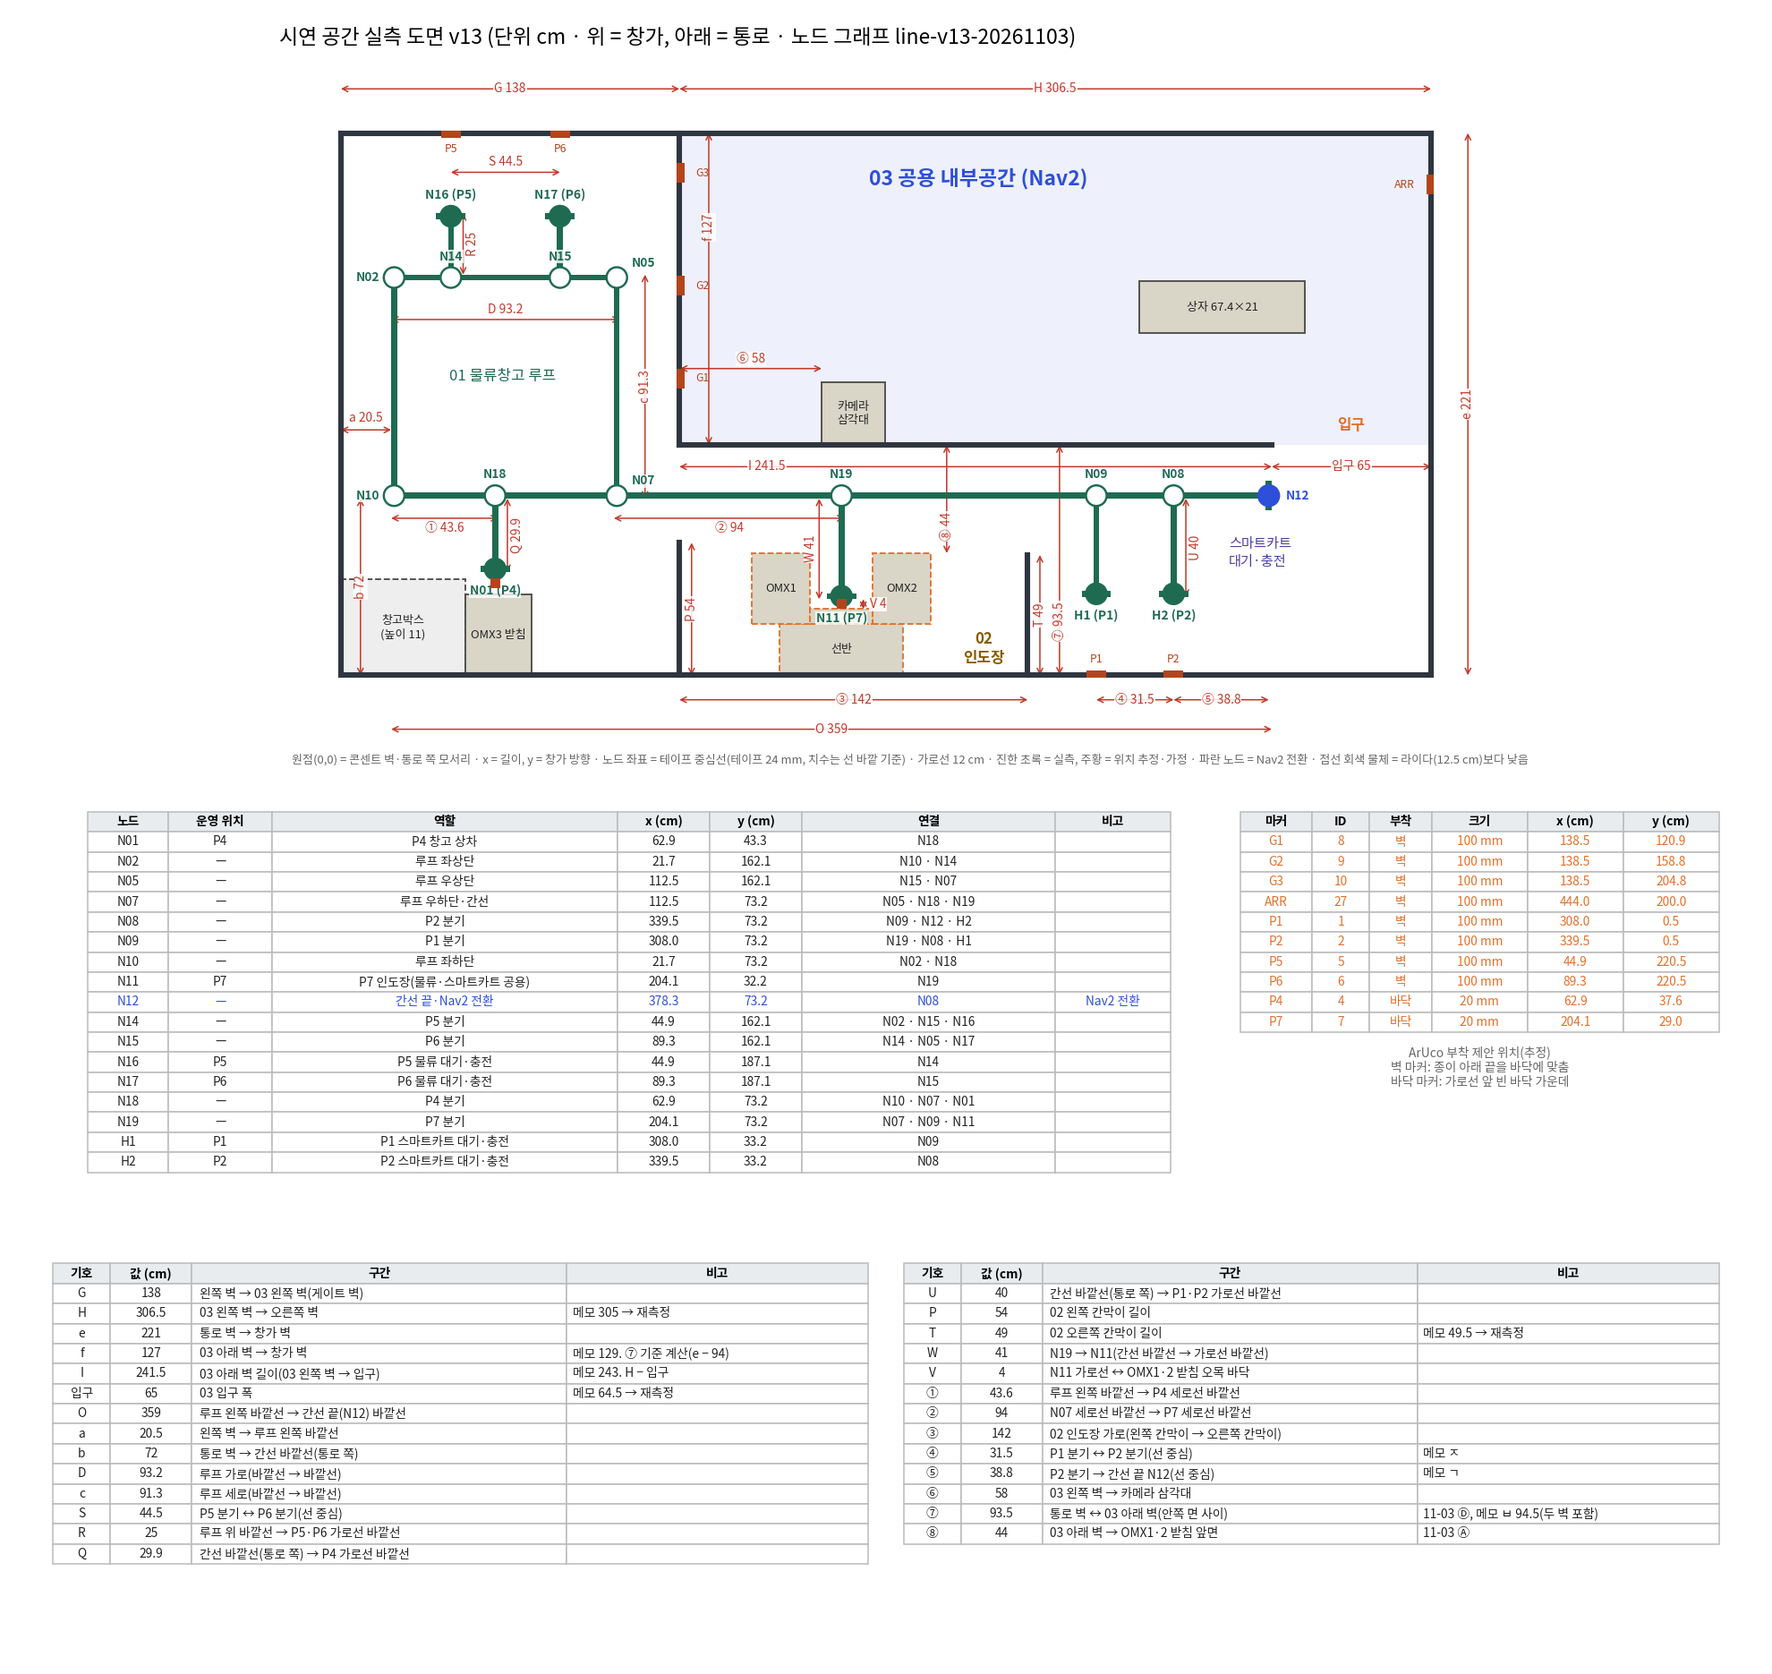
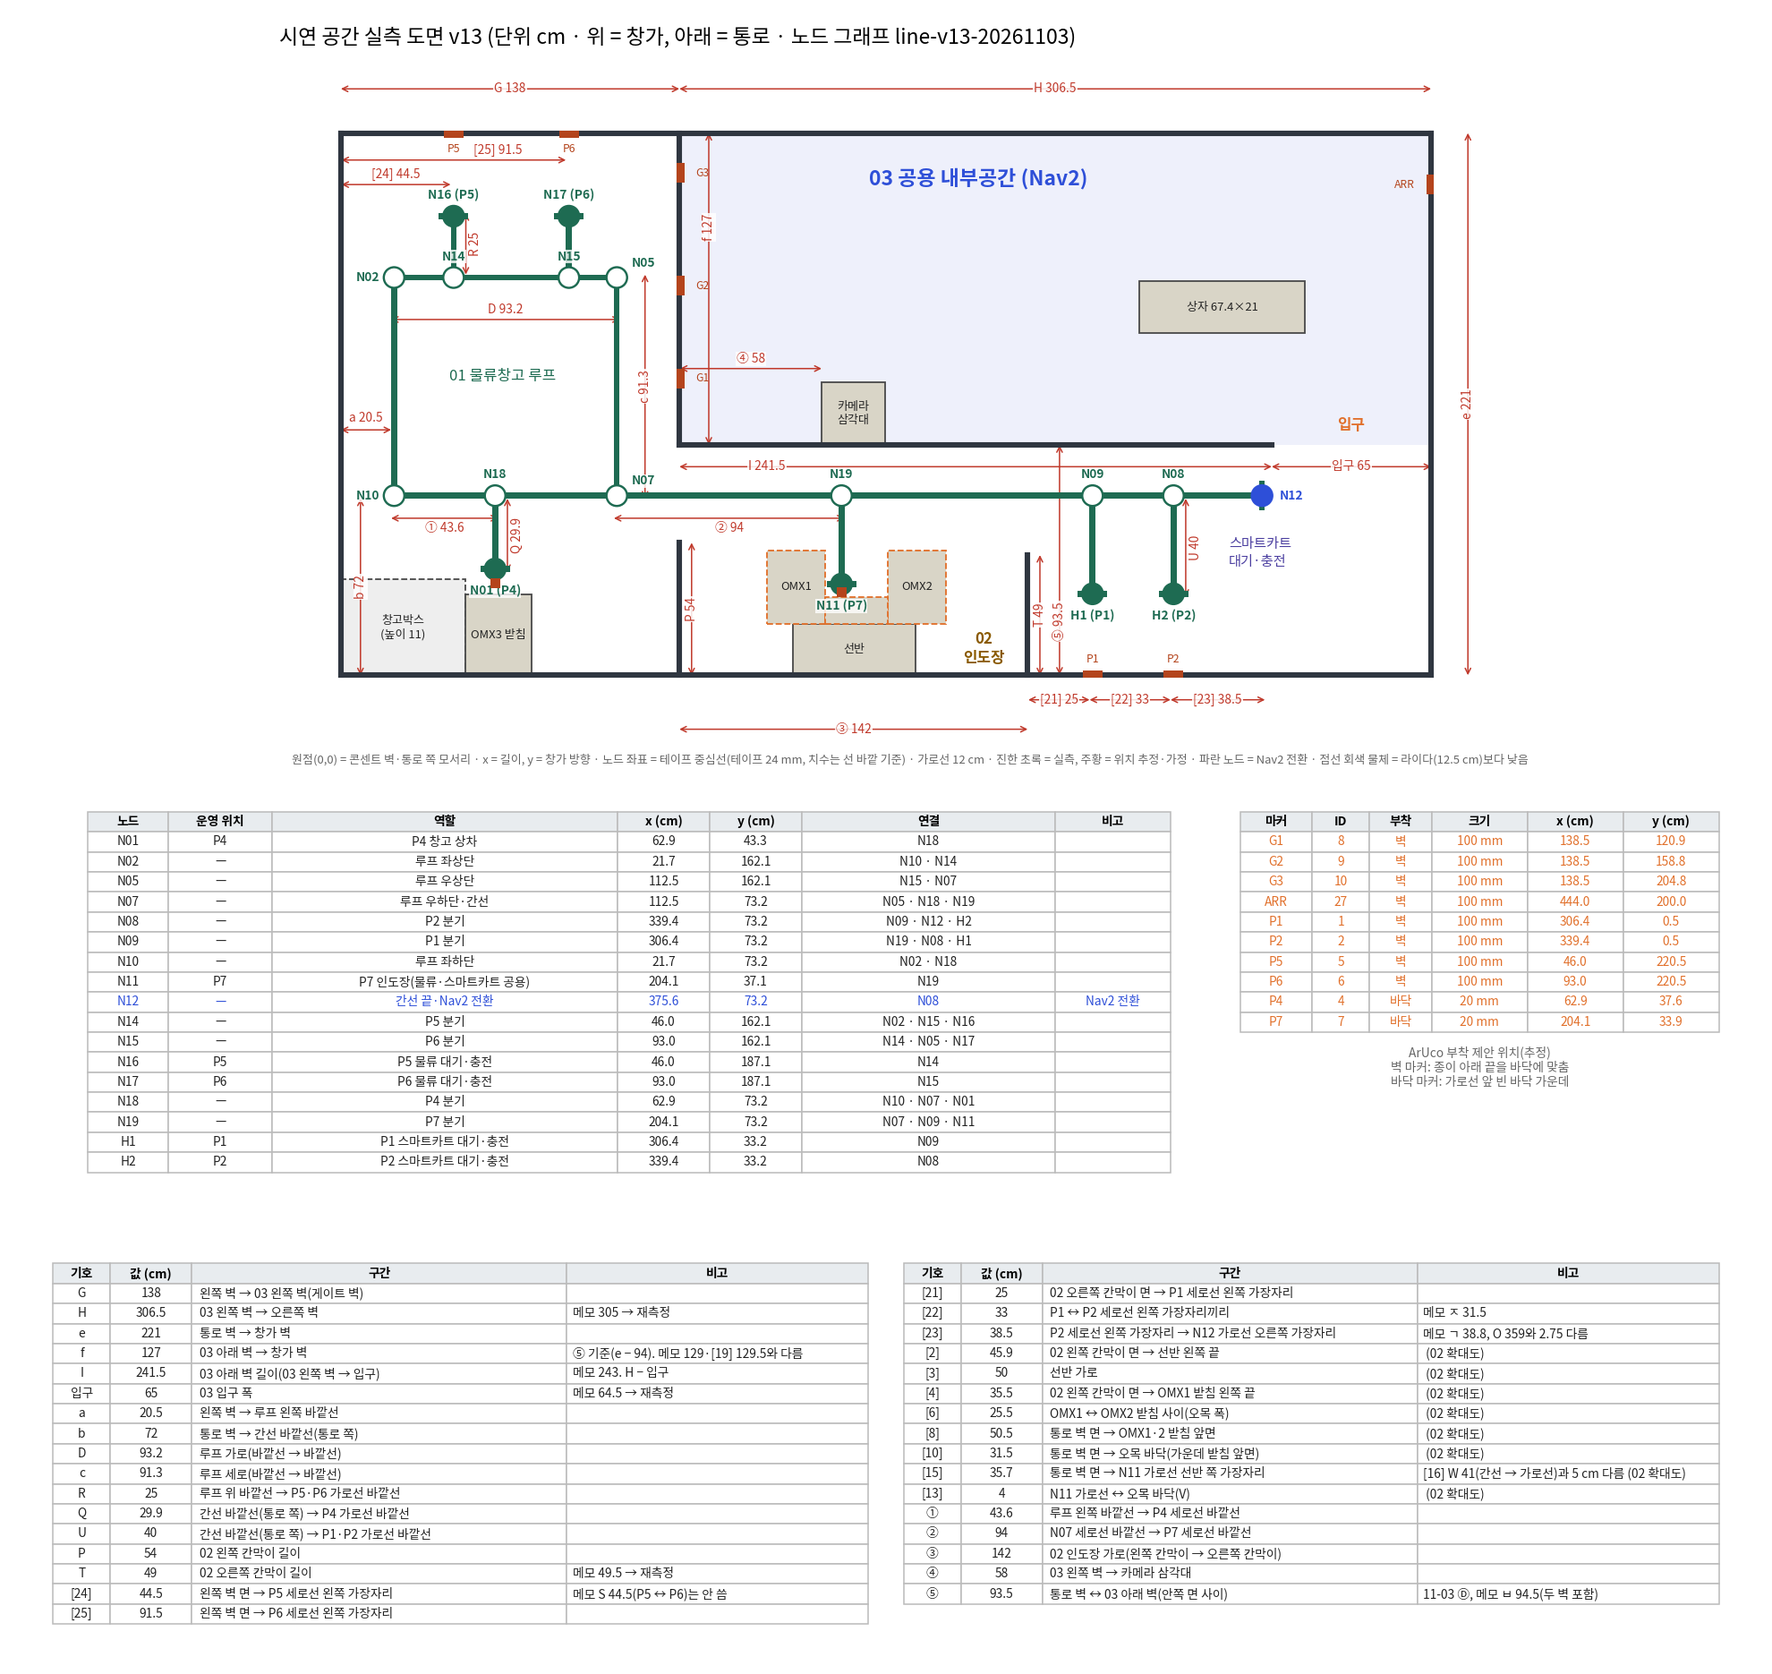
[FFT1-95] bugfix: 11-03 저녁 재측정 기록지 값으로 02 인도장·P1·P2·P5·P6 위치 보정
- 선반 x 184.15~234.15([2] 45.9·[3] 50), OMX1 왼쪽 173.75([4]), 오목 폭 25.5([6])
- OMX1·2 앞면 y 50.75([8]), 오목 바닥 31.75([10]), N11 y 37.15([15] 35.7, [13] V 4)
- H1·N09 x 306.45([21]), H2·N08 339.45([22]), N12 375.55([23])
- N14·N16 x 45.95([24]), N15·N17 92.95([25]), P1·P2·P5·P6·P7 마커 이동
- 도면 치수에 기록지 번호 [n] 표시, 02 인도장 확대도 map_measured_v13_02.png 추가

diff --git a/services/roport-pinky/src/roport_gz_world/roport_gz_world/draw_layout.py b/services/roport-pinky/src/roport_gz_world/roport_gz_world/draw_layout.py
@@ -1,7 +1,7 @@
 """배치 데이터 → 실측 도면 PNG(노드 그래프 포함).
 
 패키지 폴더에서 실행한다(matplotlib 필요, 실행·CI 의존성 아님):
-  python3 -m roport_gz_world.draw_layout     # ../../maps/map_measured_<version>.png
+  python3 -m roport_gz_world.draw_layout     # ../../maps/map_measured_<version>.png, _02.png
 """
 
 import argparse
@@ -25,6 +25,8 @@ LABELS = {
     'omx3_base': 'OMX3 받침', 'shelf_02': '선반', 'omx12_left': 'OMX1', 'omx12_right': 'OMX2',
     'omx12_back': '',
 }
+# 02 인도장 확대도(map_measured_<version>_02.png)에만 그리는 치수(재측정 기록지 번호)
+DETAIL_02 = {'[2]', '[3]', '[4]', '[6]', '[8]', '[10]', '[15]', '[13]'}
 
 
 def _korean_font():
@@ -49,7 +51,8 @@ def _dim(ax, p0, p1, text, offset=(0, 0), color=C['dim'], rot=0):
             bbox=dict(fc='white', ec='none', pad=0.6, alpha=0.85))
 
 
-def draw(layout, path):
+def draw(layout, path, detail=False):
+    """detail=True 면 02 인도장 확대도(치수 [2]~[15])만 그린다."""
     import matplotlib
     matplotlib.use('Agg')
     import matplotlib.pyplot as plt
@@ -58,11 +61,18 @@ def draw(layout, path):
     plt.rcParams['font.family'] = _korean_font()
     raw = layout.raw
     x0, y0, x1, y1 = layout.room()
-    fig = plt.figure(figsize=(18, 17), dpi=110)
-    ax = fig.add_axes([0.03, 0.538, 0.94, 0.4265])
-    ax.set_aspect('equal')
-    ax.set_xlim(x0 - 25, x1 + 25)
-    ax.set_ylim(y0 - 40, y1 + 30)
+    if detail:
+        fig = plt.figure(figsize=(14, 9.2), dpi=110)
+        ax = fig.add_axes([0.02, 0.02, 0.96, 0.9])
+        ax.set_aspect('equal')
+        ax.set_xlim(128, 296)
+        ax.set_ylim(-6, 100)
+    else:
+        fig = plt.figure(figsize=(18, 17), dpi=110)
+        ax = fig.add_axes([0.03, 0.538, 0.94, 0.4265])
+        ax.set_aspect('equal')
+        ax.set_xlim(x0 - 25, x1 + 25)
+        ax.set_ylim(y0 - 40, y1 + 30)
     ax.axis('off')
 
     # 03 공용 내부공간 바탕
@@ -162,25 +172,29 @@ def draw(layout, path):
     # 새 번호(①…)를 매기고 표의 비고에 메모 원래 기호를 적는다.
     n16, n01, h2 = (next(k for k in layout.nodes if k.id == i) for i in ('N16', 'N01', 'H2'))
     hw_ = layout.line_width / 2
+    n17, h1, n12 = (next(k for k in layout.nodes if k.id == i) for i in ('N17', 'H1', 'N12'))
+    sh, ol, orr, bk = (next(o for o in raw['objects'] if o['name'] == i)
+                       for i in ('shelf_02', 'omx12_left', 'omx12_right', 'omx12_back'))
+    n11 = next(k for k in layout.nodes if k.id == 'N11')
+    bar11 = n11.y - hw_
+    t_ = raw['defaults']['wall_thickness'] / 2   # 벽 면 = 중심 ± 0.25 cm
     dims = [
         # (시작, 끝, 기호(None = 새 번호), 값, 구간, 비고, 글자 위치 보정, 회전)
+        # [n] = 2026-11-03 저녁 재측정 기록지 번호(Confluence 19136514)
         ((0, y1 + 18), (138, y1 + 18), 'G', '138', '왼쪽 벽 → 03 왼쪽 벽(게이트 벽)', '',
          (0, 0), 0),
         ((138, y1 + 18), (x1, y1 + 18), 'H', '306.5', '03 왼쪽 벽 → 오른쪽 벽', '메모 305 → 재측정',
          (0, 0), 0),
         ((x1 + 15, 0), (x1 + 15, y1), 'e', '221', '통로 벽 → 창가 벽', '', (0, 0), 90),
-        ((150, 94), (150, y1), 'f', '127', '03 아래 벽 → 창가 벽', '메모 129. ⑦ 기준 계산(e − 94)',
-         (0, 25), 90),
+        ((150, 94), (150, y1), 'f', '127', '03 아래 벽 → 창가 벽',
+         '⑤ 기준(e − 94). 메모 129·[19] 129.5와 다름', (0, 25), 90),
         ((138, 85), (379.5, 85), 'I', '241.5', '03 아래 벽 길이(03 왼쪽 벽 → 입구)',
          '메모 243. H − 입구', (-85, 0), 0),
         ((379.5, 85), (x1, 85), '입구', '65', '03 입구 폭', '메모 64.5 → 재측정', (0, 0), 0),
-        ((20.5, -22), (379.5, -22), 'O', '359', '루프 왼쪽 바깥선 → 간선 끝(N12) 바깥선', '',
-         (0, 0), 0),
         ((0, 100), (20.5, 100), 'a', '20.5', '왼쪽 벽 → 루프 왼쪽 바깥선', '', (0, 5), 0),
         ((8, 0), (8, 72), 'b', '72', '통로 벽 → 간선 바깥선(통로 쪽)', '', (0, 0), 90),
         ((20.5, 145), (113.7, 145), 'D', '93.2', '루프 가로(바깥선 → 바깥선)', '', (0, 4), 0),
         ((124, 72), (124, 163.3), 'c', '91.3', '루프 세로(바깥선 → 바깥선)', '', (0, 0), 90),
-        ((44.85, 205), (89.35, 205), 'S', '44.5', 'P5 분기 ↔ P6 분기(선 중심)', '', (0, 4), 0),
         ((n16.x + 5, 163.3), (n16.x + 5, n16.y + hw_), 'R', '25',
          '루프 위 바깥선 → P5·P6 가로선 바깥선', '', (4, 0), 90),
         ((n01.x + 5, 72), (n01.x + 5, n01.y - hw_), 'Q', '29.9',
@@ -189,25 +203,41 @@ def draw(layout, path):
          '간선 바깥선(통로 쪽) → P1·P2 가로선 바깥선', '', (4, 0), 90),
         ((143, 0), (143, 54), 'P', '54', '02 왼쪽 칸막이 길이', '', (0, 0), 90),
         ((285, 0), (285, 49), 'T', '49', '02 오른쪽 칸막이 길이', '메모 49.5 → 재측정', (0, 0), 90),
-        ((195, 72), (195, 31.0), 'W', '41', 'N19 → N11(간선 바깥선 → 가로선 바깥선)', '',
-         (-3.5, 0), 90),
-        ((213, 31.0), (213, 27.0), 'V', '4', 'N11 가로선 ↔ OMX1·2 받침 오목 바닥', '',
-         (6, 0), 0),
+        ((t_, 200), (n16.x - hw_, 200), '[24]', '44.5', '왼쪽 벽 면 → P5 세로선 왼쪽 가장자리',
+         '메모 S 44.5(P5 ↔ P6)는 안 씀', (0, 4), 0),
+        ((t_, 210), (n17.x - hw_, 210), '[25]', '91.5', '왼쪽 벽 면 → P6 세로선 왼쪽 가장자리', '',
+         (18, 4), 0),
+        ((280 + t_, -10), (h1.x - hw_, -10), '[21]', '25',
+         '02 오른쪽 칸막이 면 → P1 세로선 왼쪽 가장자리', '', (0, 0), 0),
+        ((h1.x - hw_, -10), (h2.x - hw_, -10), '[22]', '33', 'P1 ↔ P2 세로선 왼쪽 가장자리끼리',
+         '메모 ㅈ 31.5', (0, 0), 0),
+        ((h2.x - hw_, -10), (n12.x + hw_, -10), '[23]', '38.5',
+         'P2 세로선 왼쪽 가장자리 → N12 가로선 오른쪽 가장자리', '메모 ㄱ 38.8, O 359와 2.75 다름',
+         (0, 0), 0),
+        ((138 + t_, 10), (sh['min'][0], 10), '[2]', '45.9', '02 왼쪽 칸막이 면 → 선반 왼쪽 끝', '',
+         (0, 3), 0),
+        ((sh['min'][0], 5), (sh['max'][0], 5), '[3]', '50', '선반 가로', '', (12, 0), 0),
+        ((138 + t_, 40), (ol['min'][0], 40), '[4]', '35.5', '02 왼쪽 칸막이 면 → OMX1 받침 왼쪽 끝',
+         '', (0, 3), 0),
+        ((ol['max'][0], 46), (orr['min'][0], 46), '[6]', '25.5', 'OMX1 ↔ OMX2 받침 사이(오목 폭)',
+         '', (7, 0), 0),
+        ((178, t_), (178, ol['max'][1]), '[8]', '50.5', '통로 벽 면 → OMX1·2 받침 앞면', '',
+         (0, 12), 90),
+        ((201, t_), (201, bk['max'][1]), '[10]', '31.5', '통로 벽 면 → 오목 바닥(가운데 받침 앞면)',
+         '', (0, -2), 90),
+        ((215, t_), (215, bar11), '[15]', '35.7', '통로 벽 면 → N11 가로선 선반 쪽 가장자리',
+         '[16] W 41(간선 → 가로선)과 5 cm 다름', (0, -2), 90),
+        ((219, bk['max'][1]), (219, bar11), '[13]', '4', 'N11 가로선 ↔ 오목 바닥(V)', '',
+         (8, 0), 0),
         ((20.5, 64), (64.1, 64), None, '43.6', '루프 왼쪽 바깥선 → P4 세로선 바깥선', '',
          (0, -4), 0),
         ((111.3, 64), (205.3, 64), None, '94', 'N07 세로선 바깥선 → P7 세로선 바깥선', '',
          (0, -4), 0),
-        ((138, -10), (280, -10), None, '142', '02 인도장 가로(왼쪽 칸막이 → 오른쪽 칸막이)', '',
-         (0, 0), 0),
-        ((308.0, -10), (339.5, -10), None, '31.5', 'P1 분기 ↔ P2 분기(선 중심)', '메모 ㅈ',
-         (0, 0), 0),
-        ((339.5, -10), (378.3, -10), None, '38.8', 'P2 분기 → 간선 끝 N12(선 중심)', '메모 ㄱ',
+        ((138, -22), (280, -22), None, '142', '02 인도장 가로(왼쪽 칸막이 → 오른쪽 칸막이)', '',
          (0, 0), 0),
         ((138.25, 125), (196, 125), None, '58', '03 왼쪽 벽 → 카메라 삼각대', '', (0, 4), 0),
-        ((293, 0.25), (293, 93.75), None, '93.5', '통로 벽 ↔ 03 아래 벽(안쪽 면 사이)',
+        ((293, t_), (293, 94 - t_), None, '93.5', '통로 벽 ↔ 03 아래 벽(안쪽 면 사이)',
          '11-03 Ⓓ, 메모 ㅂ 94.5(두 벽 포함)', (0, -25), 90),
-        ((247, 93.75), (247, 49.75), None, '44', '03 아래 벽 → OMX1·2 받침 앞면', '11-03 Ⓐ',
-         (0, -11), 90),
     ]
     drows = []
     num = 0
@@ -215,8 +245,15 @@ def draw(layout, path):
         if key is None:
             key = chr(0x2460 + num)
             num += 1
-        _dim(ax, p0, p1, f'{key} {value}', offset=off, rot=rot)
-        drows.append([key, value, desc, note])
+        if (key in DETAIL_02) == detail:
+            _dim(ax, p0, p1, f'{key} {value}', offset=off, rot=rot)
+        drows.append([key, value, desc, note + (' (02 확대도)' if key in DETAIL_02 else '')])
+    if detail:
+        ax.set_title(f'02 인도장 확대 {layout.version} (단위 cm, [n] = 2026-11-03 재측정 기록지 번호 · '
+                     f'통로 벽 면 y 0.25, 02 왼쪽 칸막이 면 x 138.25)', fontsize=13, loc='left')
+        fig.savefig(path, dpi=110, metadata={'Software': None})
+        plt.close(fig)
+        return
 
     ax.set_title(f'시연 공간 실측 도면 {layout.version} (단위 cm · 위 = 창가, 아래 = 통로 · '
                  f'노드 그래프 {layout.graph_version})', fontsize=15, loc='left', pad=12)
@@ -311,6 +348,9 @@ def main(argv=None):
     out = args.output or os.path.join(DEFAULT_MAP_DIR, f'map_measured_{layout.version}.png')
     draw(layout, out)
     print(f'wrote {out}')
+    out02 = os.path.splitext(out)[0] + '_02.png'
+    draw(layout, out02, detail=True)
+    print(f'wrote {out02}')
     return 0
 
 

diff --git a/services/roport-pinky/src/roport_gz_world/test/test_layout.py b/services/roport-pinky/src/roport_gz_world/test/test_layout.py
@@ -83,16 +83,18 @@ def test_line_dimensions_from_measurement(layout):
     assert n05.x - n10.x + 2 * half == pytest.approx(93.2)         # D
     assert n05.y - n10.y + 2 * half == pytest.approx(91.3)         # c
     n12 = _node(layout, 'N12')
-    assert n12.x + half - (n10.x - half) == pytest.approx(359.0)   # O
-    # 간선 끝은 03 입구 시작과 같은 x
-    assert n12.x + half == pytest.approx(379.5)
-    assert _node(layout, 'N15').x - _node(layout, 'N14').x == pytest.approx(44.5)   # S
+    # 2026-11-03 저녁 재측정 기록지: 벽·칸막이 면 → 세로선 왼쪽 가장자리
+    wall_face = layout.raw['defaults']['wall_thickness'] / 2
+    assert _node(layout, 'N16').x - half - wall_face == pytest.approx(44.5)        # [24]
+    assert _node(layout, 'N17').x - half - wall_face == pytest.approx(91.5)        # [25]
     for stop, length in (('N16', 25), ('N17', 25)):                                # R
         assert _node(layout, stop).y + half - (n05.y + half) == pytest.approx(length)
-    for stop, length in (('N01', 29.9), ('N11', 41), ('H1', 40), ('H2', 40)):      # Q W U
+    for stop, length in (('N01', 29.9), ('H1', 40), ('H2', 40)):                   # Q U
         assert (n10.y - half) - (_node(layout, stop).y - half) == pytest.approx(length)
-    assert _node(layout, 'N08').x - _node(layout, 'N09').x == pytest.approx(31.5)  # ㅈ
-    assert n12.x - _node(layout, 'N08').x == pytest.approx(38.8)                   # ㄱ
+    h1, h2 = _node(layout, 'H1'), _node(layout, 'H2')
+    assert h1.x - half - (280 + wall_face) == pytest.approx(25)                    # [21]
+    assert h2.x - h1.x == pytest.approx(33)                                        # [22]
+    assert n12.x + half - (h2.x - half) == pytest.approx(38.5)                     # [23]
     # 분기 x: 바깥선 → 바깥선
     assert _node(layout, 'N18').x + half - (n10.x - half) == pytest.approx(43.6)
     n07 = _node(layout, 'N07')
@@ -116,23 +118,31 @@ def test_delivery_and_warehouse_dimensions(layout):
     half = layout.bar_length / 2
     assert objs['omx12_left']['max'][0] < _node(layout, 'N11').x - half
     assert _node(layout, 'N11').x + half < objs['omx12_right']['min'][0]
-    assert objs['omx12_right']['min'][0] - objs['omx12_left']['max'][0] == pytest.approx(25.6)  # f
+    assert objs['omx12_right']['min'][0] - objs['omx12_left']['max'][0] == pytest.approx(25.5)  # [6]
+    face = 138 + layout.raw['defaults']['wall_thickness'] / 2      # 칸막이-좌 면
+    assert objs['shelf_02']['min'][0] - face == pytest.approx(45.9)                # [2]
+    assert objs['shelf_02']['max'][0] - objs['shelf_02']['min'][0] == pytest.approx(50)  # [3]
+    assert objs['omx12_left']['min'][0] - face == pytest.approx(35.5)              # [4]
 
 
-def test_omx12_from_zone03_wall(layout):
-    # 2026-11-03 재측정: 03 아래 벽 면(통로 쪽)에서 잰 거리. 오목 바닥은 W·V로 정함(Ⓑ 62 안 씀)
+def test_omx12_from_walls(layout):
+    # 2026-11-03 저녁 재측정 기록지: 벽-선반(통로 벽) 면 기준, 벽-03 면 기준은 0.5 cm 안에서 확인
     raw = {w['name']: w for w in layout.raw['walls']}
-    face = raw['zone03_bottom']['from'][1] - layout.raw['defaults']['wall_thickness'] / 2
+    half_t = layout.raw['defaults']['wall_thickness'] / 2
+    face03 = raw['zone03_bottom']['from'][1] - half_t
+    aisle_face = half_t
     objs = {o['name']: o for o in layout.raw['objects']}
     n11 = _node(layout, 'N11')
-    bar_end = n11.y - layout.line_width / 2           # 가로선의 선반 쪽 바깥선
+    bar_end = n11.y - layout.line_width / 2           # 가로선의 선반 쪽 가장자리
     for name in ('omx12_left', 'omx12_right'):
-        assert face - objs[name]['max'][1] == pytest.approx(44)                  # 돌출 앞면
-    assert bar_end - objs['omx12_back']['max'][1] == pytest.approx(4)            # V
-    aisle_face = layout.raw['defaults']['wall_thickness'] / 2
-    assert face - aisle_face == pytest.approx(93.5)                              # Ⓓ 벽 → 벽
-    main = _node(layout, 'N19').y
-    assert main - objs['omx12_right']['max'][1] == pytest.approx(24, abs=0.6)    # Ⓒ
+        assert objs[name]['max'][1] - aisle_face == pytest.approx(50.5)          # [8]
+        assert face03 - objs[name]['max'][1] == pytest.approx(42.5, abs=0.6)     # [11]
+    back = objs['omx12_back']['max'][1]
+    assert back - aisle_face == pytest.approx(31.5)                              # [10]
+    assert face03 - back == pytest.approx(61.5, abs=0.6)                         # [12]
+    assert bar_end - aisle_face == pytest.approx(35.7)                           # [15]
+    assert bar_end - back == pytest.approx(4, abs=0.3)                           # [13] V
+    assert face03 - aisle_face == pytest.approx(93.5)                            # Ⓓ 벽 → 벽
     # 바닥 P7 마커(2 cm)는 가로선과 오목 바닥 사이
     p7 = next(m for m in layout.raw['markers']['items'] if m['name'] == 'P7')
     assert objs['omx12_back']['max'][1] + 1 < p7['center'][1] < bar_end - 1
@@ -210,8 +220,7 @@ def test_spawn_point_is_free(layout):
 
 def test_provisional_values_are_marked(layout):
     names = layout.provisional_names()
-    for expected in ('omx12_left', 'omx12_right', 'omx12_back', 'shelf_02', 'marker_P5',
-                     'marker_P7'):
+    for expected in ('omx12_left', 'omx12_right', 'omx12_back', 'marker_P5', 'marker_P7'):
         assert expected in names
     for measured in ('box_03', 'outer_aisle', 'zone03_bottom', 'partition_delivery', 'omx3_base',
                      'camera_tripod', 'tape_N18_N01', 'tape_N19_N11', 'bar_N11', 'bar_N16'):
